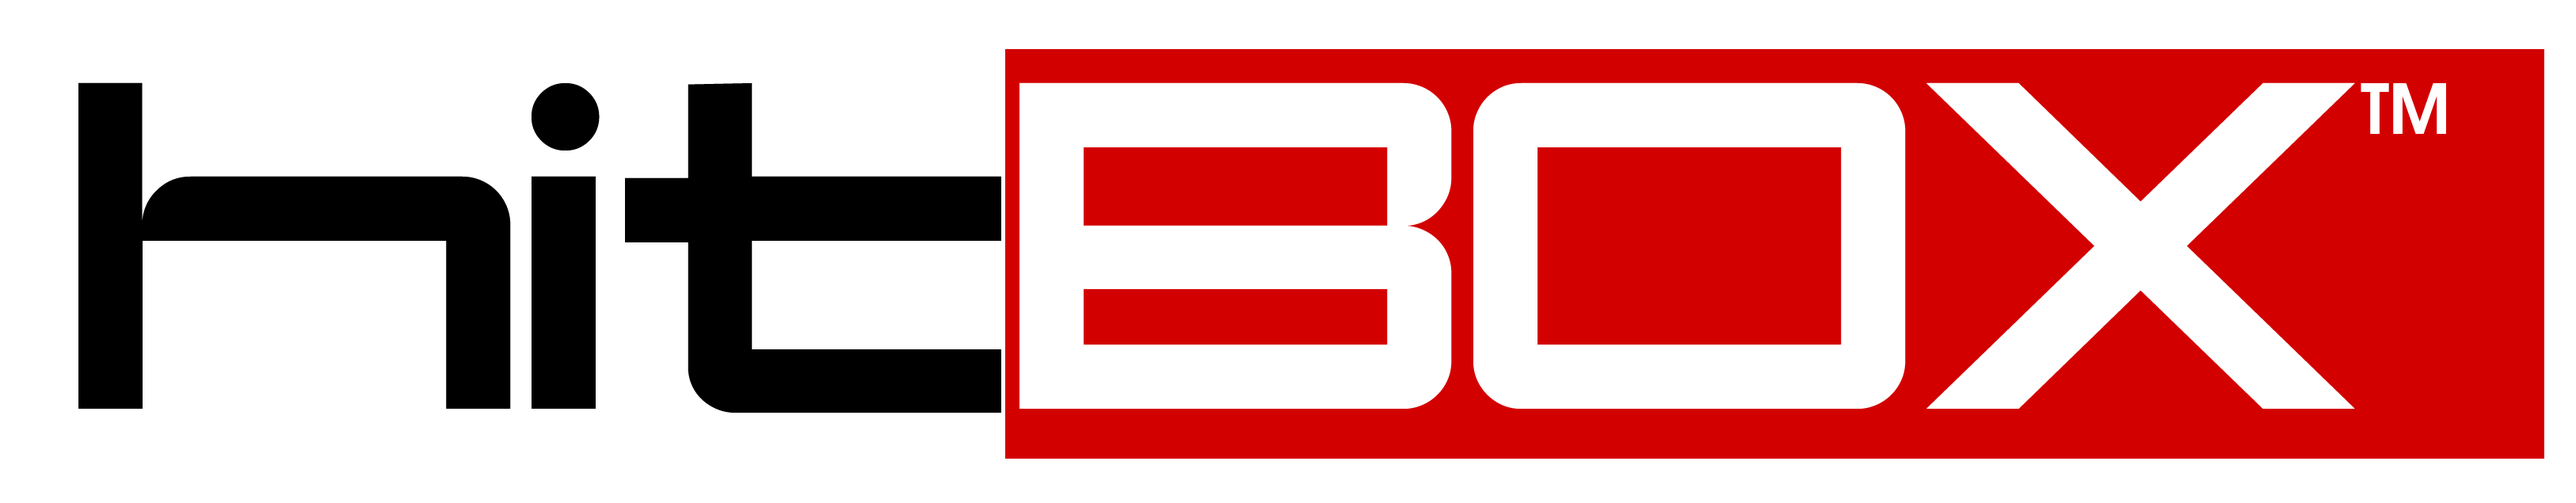
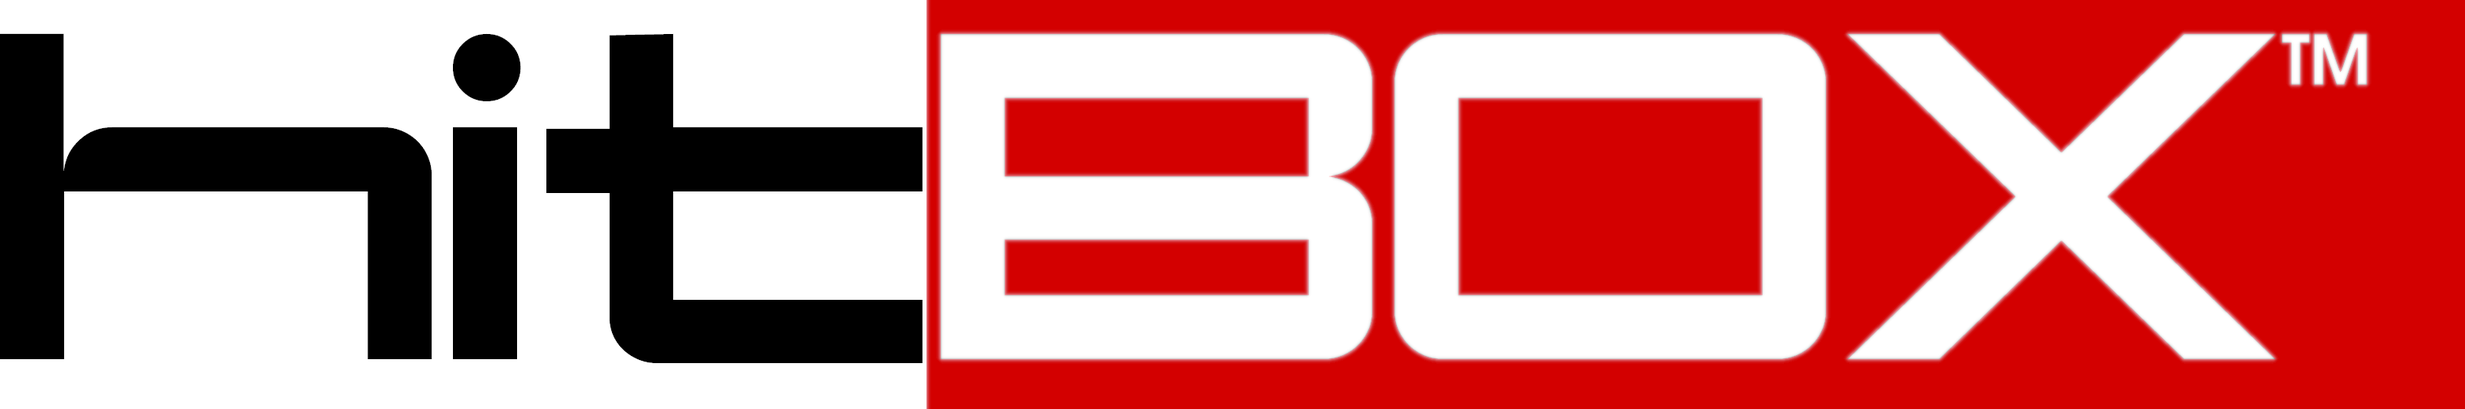
Update styling and assets for consistency. Add instructions for OBS to README. Fix Up button position.

diff --git a/hitbox-gamepad.css b/hitbox-gamepad.css
@@ -63,7 +63,7 @@ body.dark .hitbox-logo.dark {
   margin-top: 12vmin;
 }
 .button-container:nth-of-type(4) {
-  margin-left: 52vmin;
+  margin-left: 42vmin;
   margin-top: 28vmin;
   height: 12vmin;
   width: 12vmin;
@@ -82,7 +82,7 @@ body.dark .hitbox-logo.dark {
 }
 .button-container:nth-of-type(8) {
   margin-left: 80vmin;
-  margin-top: 10vmin;
+  margin-top: 12vmin;
 }
 .button-container:nth-of-type(9) {
   margin-left: 48vmin;
@@ -98,32 +98,22 @@ body.dark .hitbox-logo.dark {
 }
 .button-container:nth-of-type(12) {
   margin-left: 78vmin;
-  margin-top: 20vmin;
+  margin-top: 22vmin;
 }
 
 .hitbox-logo {
   position: absolute;
-}
-.hitbox-logo.light {
   margin-left: 0;
   margin-top: 32vmin;
   max-width: 40vmin;
 }
-.hitbox-logo.light.vertical {
+.hitbox-logo.vertical {
   margin-left: -14vmin;
   margin-top: 18vmin;
   transform: rotate(90deg);
 }
 .hitbox-logo.dark {
   display: none;
-  margin-left: -6vmin;
-  margin-top: 30vmin;
-  max-width: 50vmin;
-}
-.hitbox-logo.dark.vertical {
-  margin-left: -20vmin;
-  margin-top: 16vmin;
-  transform: rotate(90deg);
 }
 
 .is-connected {

diff --git a/hitbox-gamepad.scss b/hitbox-gamepad.scss
@@ -122,7 +122,7 @@ body {
 	}
 
 	&:nth-of-type(4) {
-		margin-left: 52vmin;
+		margin-left: 42vmin;
 		margin-top: 28vmin;
 		height: 12vmin;
 		width: 12vmin;
@@ -147,7 +147,7 @@ body {
 
 	&:nth-of-type(8) {
 		margin-left: 80vmin;
-		margin-top: 10vmin;
+		margin-top: 12vmin;
 	}
 
 	// White Buttons - Bottom
@@ -168,40 +168,26 @@ body {
 
 	&:nth-of-type(12) {
 		margin-left: 78vmin;
-		margin-top: 20vmin;
+		margin-top: 22vmin;
 	}
 }
 
 
 .hitbox-logo {
 	position: absolute;
+	margin-left: 0;
+	margin-top: 32vmin;
+	max-width: 40vmin;
 
-	&.light {
-		margin-left: 0;
-		margin-top: 32vmin;
-		max-width: 40vmin;
-
-
-		&.vertical {
-			margin-left: -14vmin;
-			margin-top: 18vmin;
-			transform: rotate(90deg);
-		}
-
+	&.vertical {
+		margin-left: -14vmin;
+		margin-top: 18vmin;
+		transform: rotate(90deg);
 	}
+
 
 	&.dark {
 		display: none;
-		margin-left: -6vmin;
-		margin-top: 30vmin;
-		max-width: 50vmin;
-
-		&.vertical {
-			margin-left: -20vmin;
-			margin-top: 16vmin;
-			transform: rotate(90deg);
-		}
-
 	}
 
 }

diff --git a/index.html b/index.html
@@ -100,8 +100,8 @@
 				</svg>
 			</div>
 
-			<img class="hitbox-logo light" src="hitbox.white-red.png" alt="HitBox Logo" />
-			<img class="hitbox-logo dark" src="hitbox.black-red.png" alt="HitBox Logo" />
+			<img class="hitbox-logo light vertical" src="hitbox.white-red.png" alt="HitBox Logo" />
+			<img class="hitbox-logo dark vertical" src="hitbox.black-red.png" alt="HitBox Logo" />
 
 		</section>
 
@@ -115,14 +115,14 @@
 
 			<!-- Select color theme-->
 			<select onchange="colorThemeChange(event)">
-				<option selected value="light">Light Theme</option>
+				<option value="light">Light Theme</option>
 				<option value="dark">Dark Theme</option>
 			</select>
 
 			<!-- Select logo orientation -->
 			<select onchange="logoViewChange(event)">
-				<option selected value="horizontal">Logo Horizontal</option>
 				<option value="vertical">Logo Vertical</option>
+				<option value="horizontal">Logo Horizontal</option>
 			</select>
 
 		</div>
